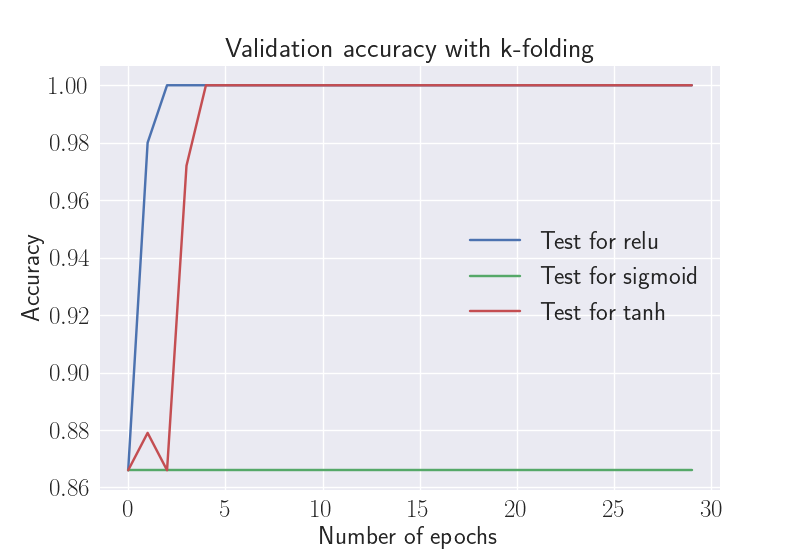
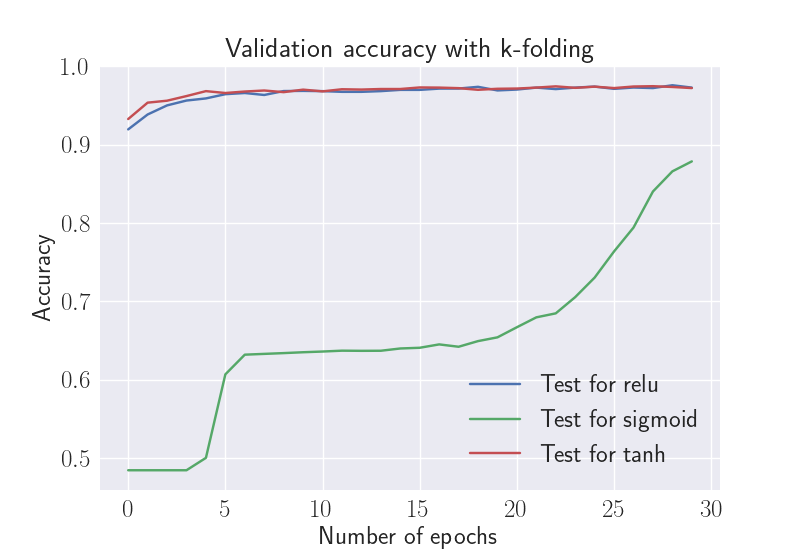
lagt til R2 score

diff --git a/Project3/Code/run_NN.py b/Project3/Code/run_NN.py
@@ -8,10 +8,10 @@ from plot import plot_bias_accuracy, plot_bias_accuracy_simple, plot_R2
 from common import prepare_data
 
 # Prepare some data
-# N_samples = 10000 # 10000
-# eeg, pos_list = prepare_data(N_samples)
-eeg = np.load(f'data/eeg_100.npy')
-pos_list = np.load(f'data/pos_list_100.npy')
+N_samples = 10000 # 10000
+eeg, pos_list = prepare_data(N_samples)
+#eeg = np.load(f'data/eeg_100.npy')
+#pos_list = np.load(f'data/pos_list_100.npy')
 pos_list = pos_list.T
 
 # Define initial parameters
